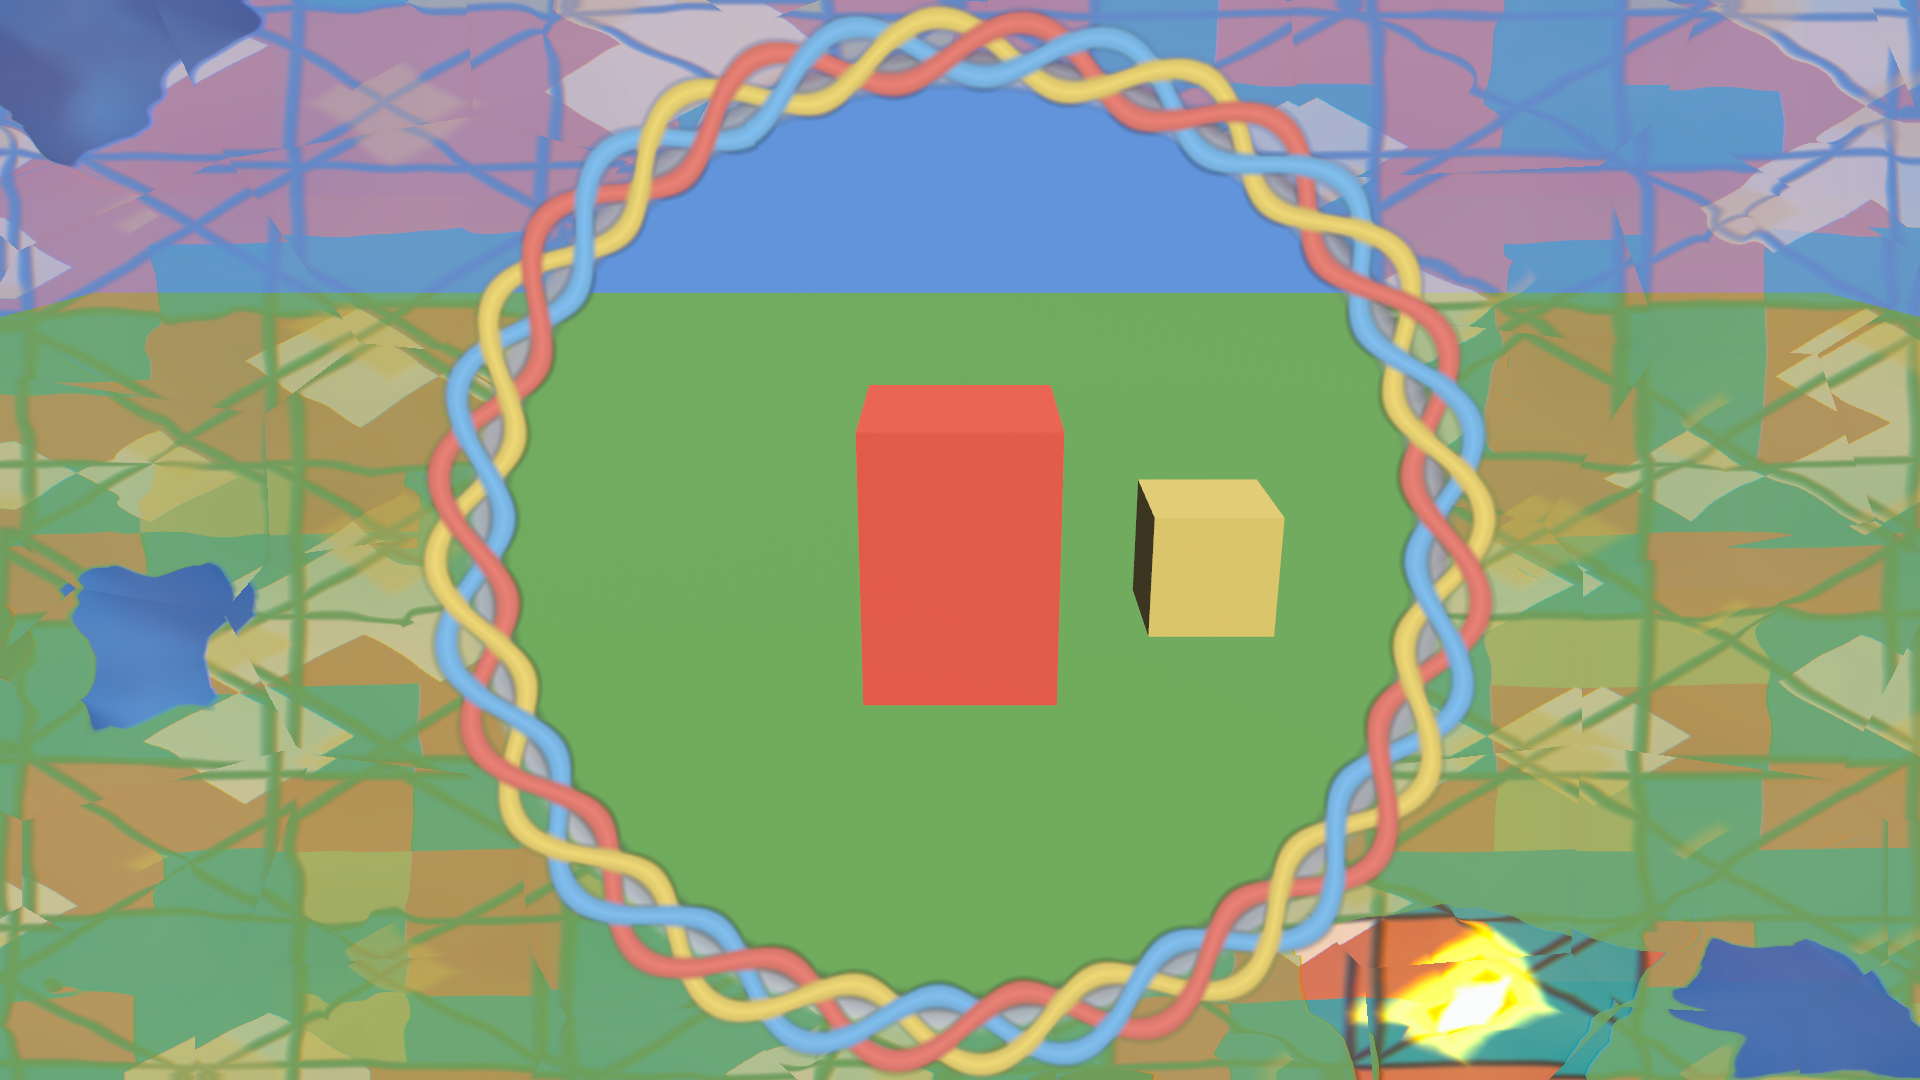
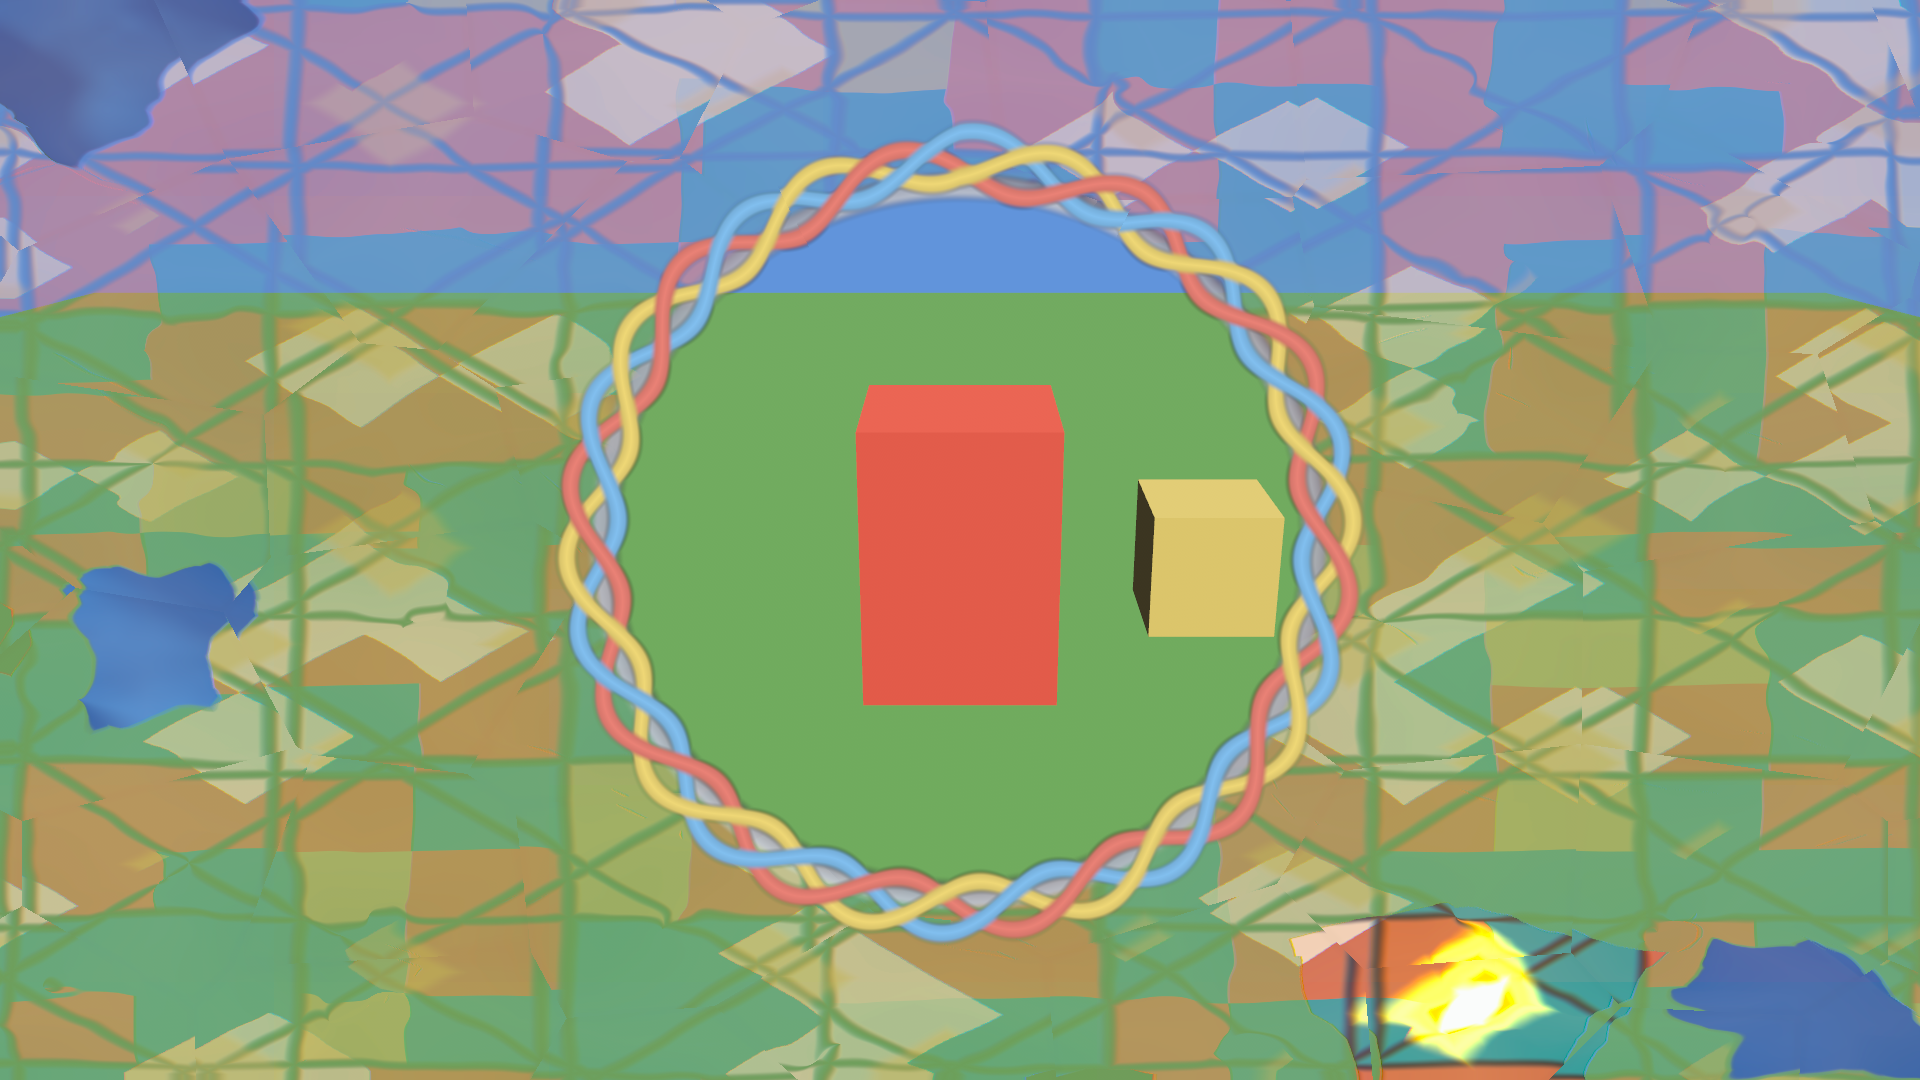
fix(skill-map): scale the held overlay lens to 0.75 of the pocket
Keep the radius derived from the no-debraid spawn-clearing, then multiply
by `LENS_POCKET_SCALE` (0.75). Braid, film, unravel annulus, and DDR marks
all follow `params.lens_radius`, so they shrink with the hole. At 1920×1080
that is ~355.3px instead of ~473.7px.

## Agent Dialogue

- **Developer:** Reduce the lens to 0.75× the current pocket radius via a named scale constant; braid, unravel, film, and DDR overlay must follow; recapture at the new size; report px at 1920×1080.
- **Agent:** Added `LENS_POCKET_SCALE = 0.75` on `uv_radius()`. Recaptured all authored maps at 1920×1080. `PRE_COMMIT_DISABLE=true cargo test -p maybraid-skill-map --lib --release --locked` (100 passed). 1080p radius is 355.26px.

diff --git a/maybraid/items/skill-map/src/lens.rs b/maybraid/items/skill-map/src/lens.rs
@@ -41,6 +41,9 @@ pub const LENS_FILM_SECS: f32 = 0.08;
 pub const LENS_UNCURL_SECS: f32 = 0.40;
 /// Fail / Debraid: braid coverage 0 → 1.
 pub const LENS_RECURL_SECS: f32 = 0.46;
+/// Overlay lens radius as a fraction of the spawn-clearing (no-debraid) pocket.
+/// `1.0` fills the pocket; `0.75` is the owner scale for the held overlay.
+pub const LENS_POCKET_SCALE: f32 = 0.75;
 const BRAID_STRANDS: u32 = 3;
 const BRAID_COLORS: [Vec3; 3] =
 	[Vec3::new(0.82, 0.22, 0.18), Vec3::new(0.86, 0.68, 0.18), Vec3::new(0.22, 0.52, 0.86)];
@@ -129,11 +132,11 @@ impl SkillMapOverlayLens {
 		}
 	}
 
-	/// Overlay UV radius (`length(uv - 0.5)` on a square) matching the
-	/// spawn-clearing pocket in the map camera.
+	/// Overlay UV radius (`length(uv - 0.5)` on a square) from the
+	/// spawn-clearing pocket in the map camera, scaled by [`LENS_POCKET_SCALE`].
 	pub fn uv_radius() -> f32 {
 		let world = MapExtents::default().spawn_clearing_half_extent();
-		world / map_view_extent().x.max(1e-5)
+		world / map_view_extent().x.max(1e-5) * LENS_POCKET_SCALE
 	}
 
 	/// Lens radius as a fraction of the overlay's short axis (height on 16:9).
@@ -569,15 +572,17 @@ mod tests {
 			(world - (SPAWN_CLEARING_RADIUS as f32 + 0.5) * extents.tile_size().x).abs() < 1e-5
 		);
 		let uv = SkillMapOverlayLens::uv_radius();
-		assert!((uv - world / map_view_extent().x).abs() < 1e-6);
+		let pocket = world / map_view_extent().x;
+		assert!((LENS_POCKET_SCALE - 0.75).abs() < 1e-6);
+		assert!((uv - pocket * LENS_POCKET_SCALE).abs() < 1e-6);
 		assert!((SkillMapOverlayLens::min_axis_radius_frac() - uv).abs() < 1e-6);
-		assert!(uv > 0.30, "pocket should fill a large central disk, got {uv}");
-		assert!(uv < 0.50, "ring must sit inside the mid-edge, got {uv}");
+		assert!(uv > 0.30, "scaled pocket should still fill a central disk, got {uv}");
+		assert!(uv < 0.40, "0.75× pocket must sit inside the mid-edge, got {uv}");
 		// 16:9 overlay: short axis is height. 1080p radius is this fraction of 1080.
 		let radius_1080 = SkillMapOverlayLens::min_axis_radius_frac() * 1080.0;
 		assert!(
-			(radius_1080 - 473.684_2).abs() < 0.05,
-			"1080p pocket radius should be ~473.7px, got {radius_1080}"
+			(radius_1080 - 355.263_16).abs() < 0.05,
+			"1080p scaled pocket radius should be ~355.3px, got {radius_1080}"
 		);
 		Ok(())
 	}

diff --git a/maybraid/items/skill-map/src/lib.rs b/maybraid/items/skill-map/src/lib.rs
@@ -54,7 +54,7 @@ pub use feed::{
 };
 pub use lens::{
 	OverlayBraidMotion, SkillMapOverlayLens, BRAID_AMP_FRAC, BRAID_STROKE_FRAC,
-	BRAID_TURN_PERIOD_UV, LENS_FILM_SECS, LENS_FLASH_SECS, LENS_RECURL_SECS,
+	BRAID_TURN_PERIOD_UV, LENS_FILM_SECS, LENS_FLASH_SECS, LENS_POCKET_SCALE, LENS_RECURL_SECS,
 	LENS_RING_THICKNESS_FRAC, LENS_UNCURL_SECS,
 };
 pub use map::{

diff --git a/maybraid/items/skill-map/README.md b/maybraid/items/skill-map/README.md
@@ -38,8 +38,9 @@ While focus is on and the overlay is up, the rest of the HUD hides and a
 vignette-style edge blur (`TUNNEL_VISION_STRENGTH` / `TUNNEL_VISION_RADIUS` /
 `TUNNEL_VISION_DARKEN`) fades in on the 3D camera so the centre stays sharp
 enough to navigate. The stained-glass field leaves a circular lens in the
-centre — sized from the spawn-clearing (no-debraid) pocket, not a magic UV
-number — with a 2D braid around the rim (apa-kan tile-rim weave: opposite
+centre — sized from the spawn-clearing (no-debraid) pocket times
+`LENS_POCKET_SCALE` (0.75), not a magic UV number — with a 2D braid around
+the rim (apa-kan tile-rim weave: opposite
 sines, integer twists, true over/under stacking). Inside the ring is a clear
 window onto the live 3D world (the little centre cursor is replaced); outside
 is the skill map as before. Feed arrows and the hit line stay drawn on top of
@@ -61,7 +62,8 @@ GPU stills of the held overlay (idle, fire flash, mid-unravel, mid re-plait)
 for each authored skill map, including the DDR-style Rockadder Feed, live in
 [`captures/`](captures/). They are 1920×1080 window screenshots of the real
 compositor with a 3D world behind the hole. The lens radius is the spawn-clearing
-pocket: about 43.9% of the short overlay axis (~474px at 1080p).
+pocket times `LENS_POCKET_SCALE` (0.75): about 32.9% of the short overlay axis
+(~355px at 1080p).
 
 Run the focused checks with:
 
